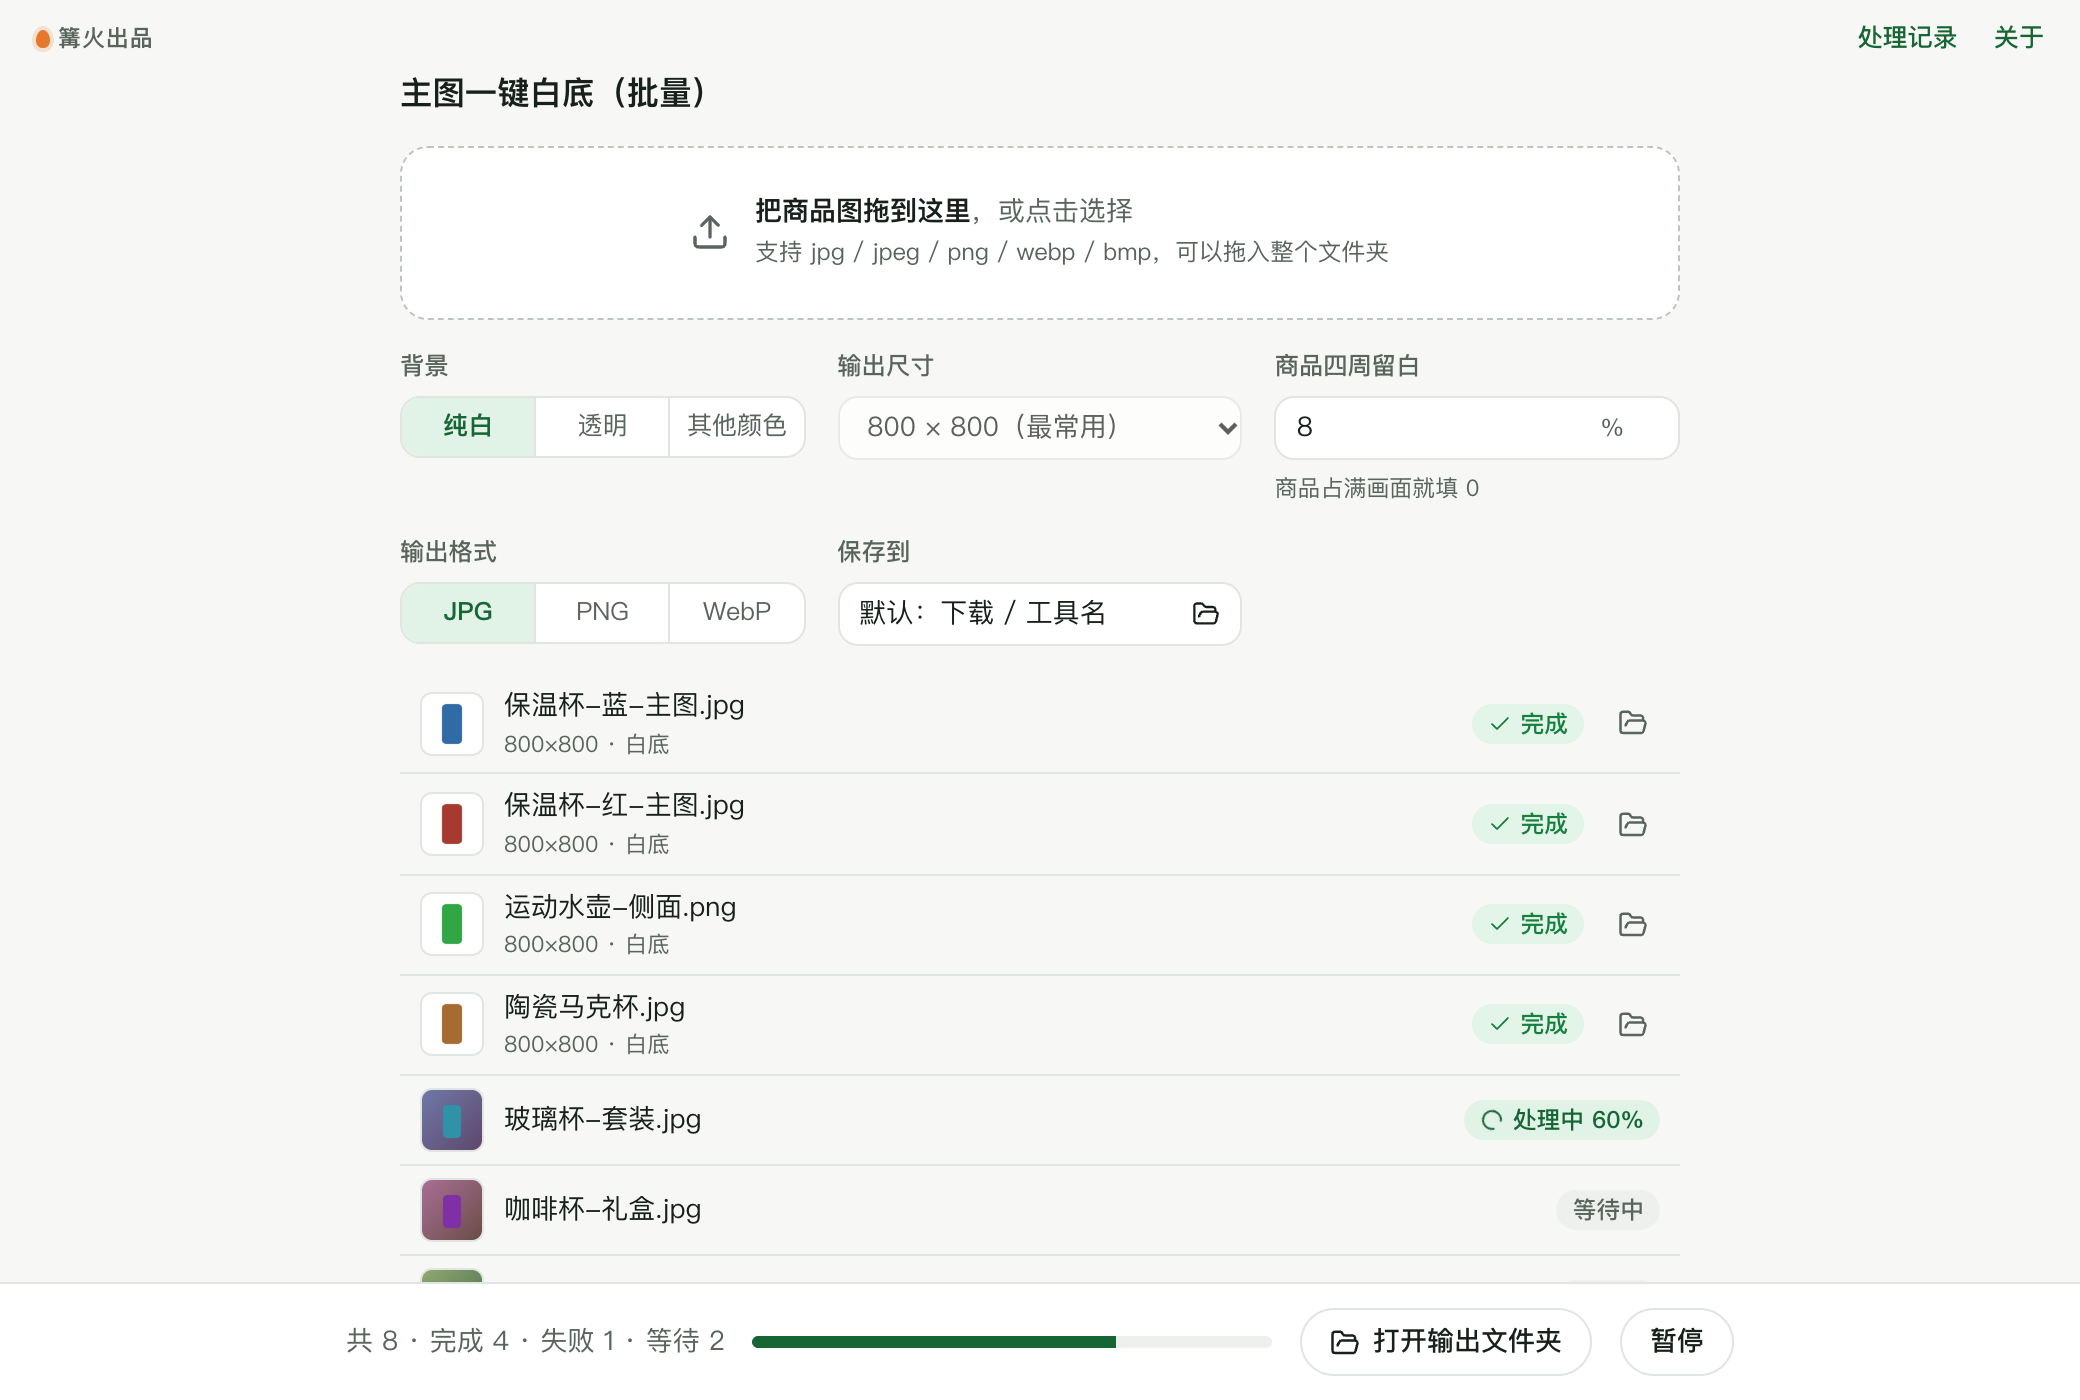
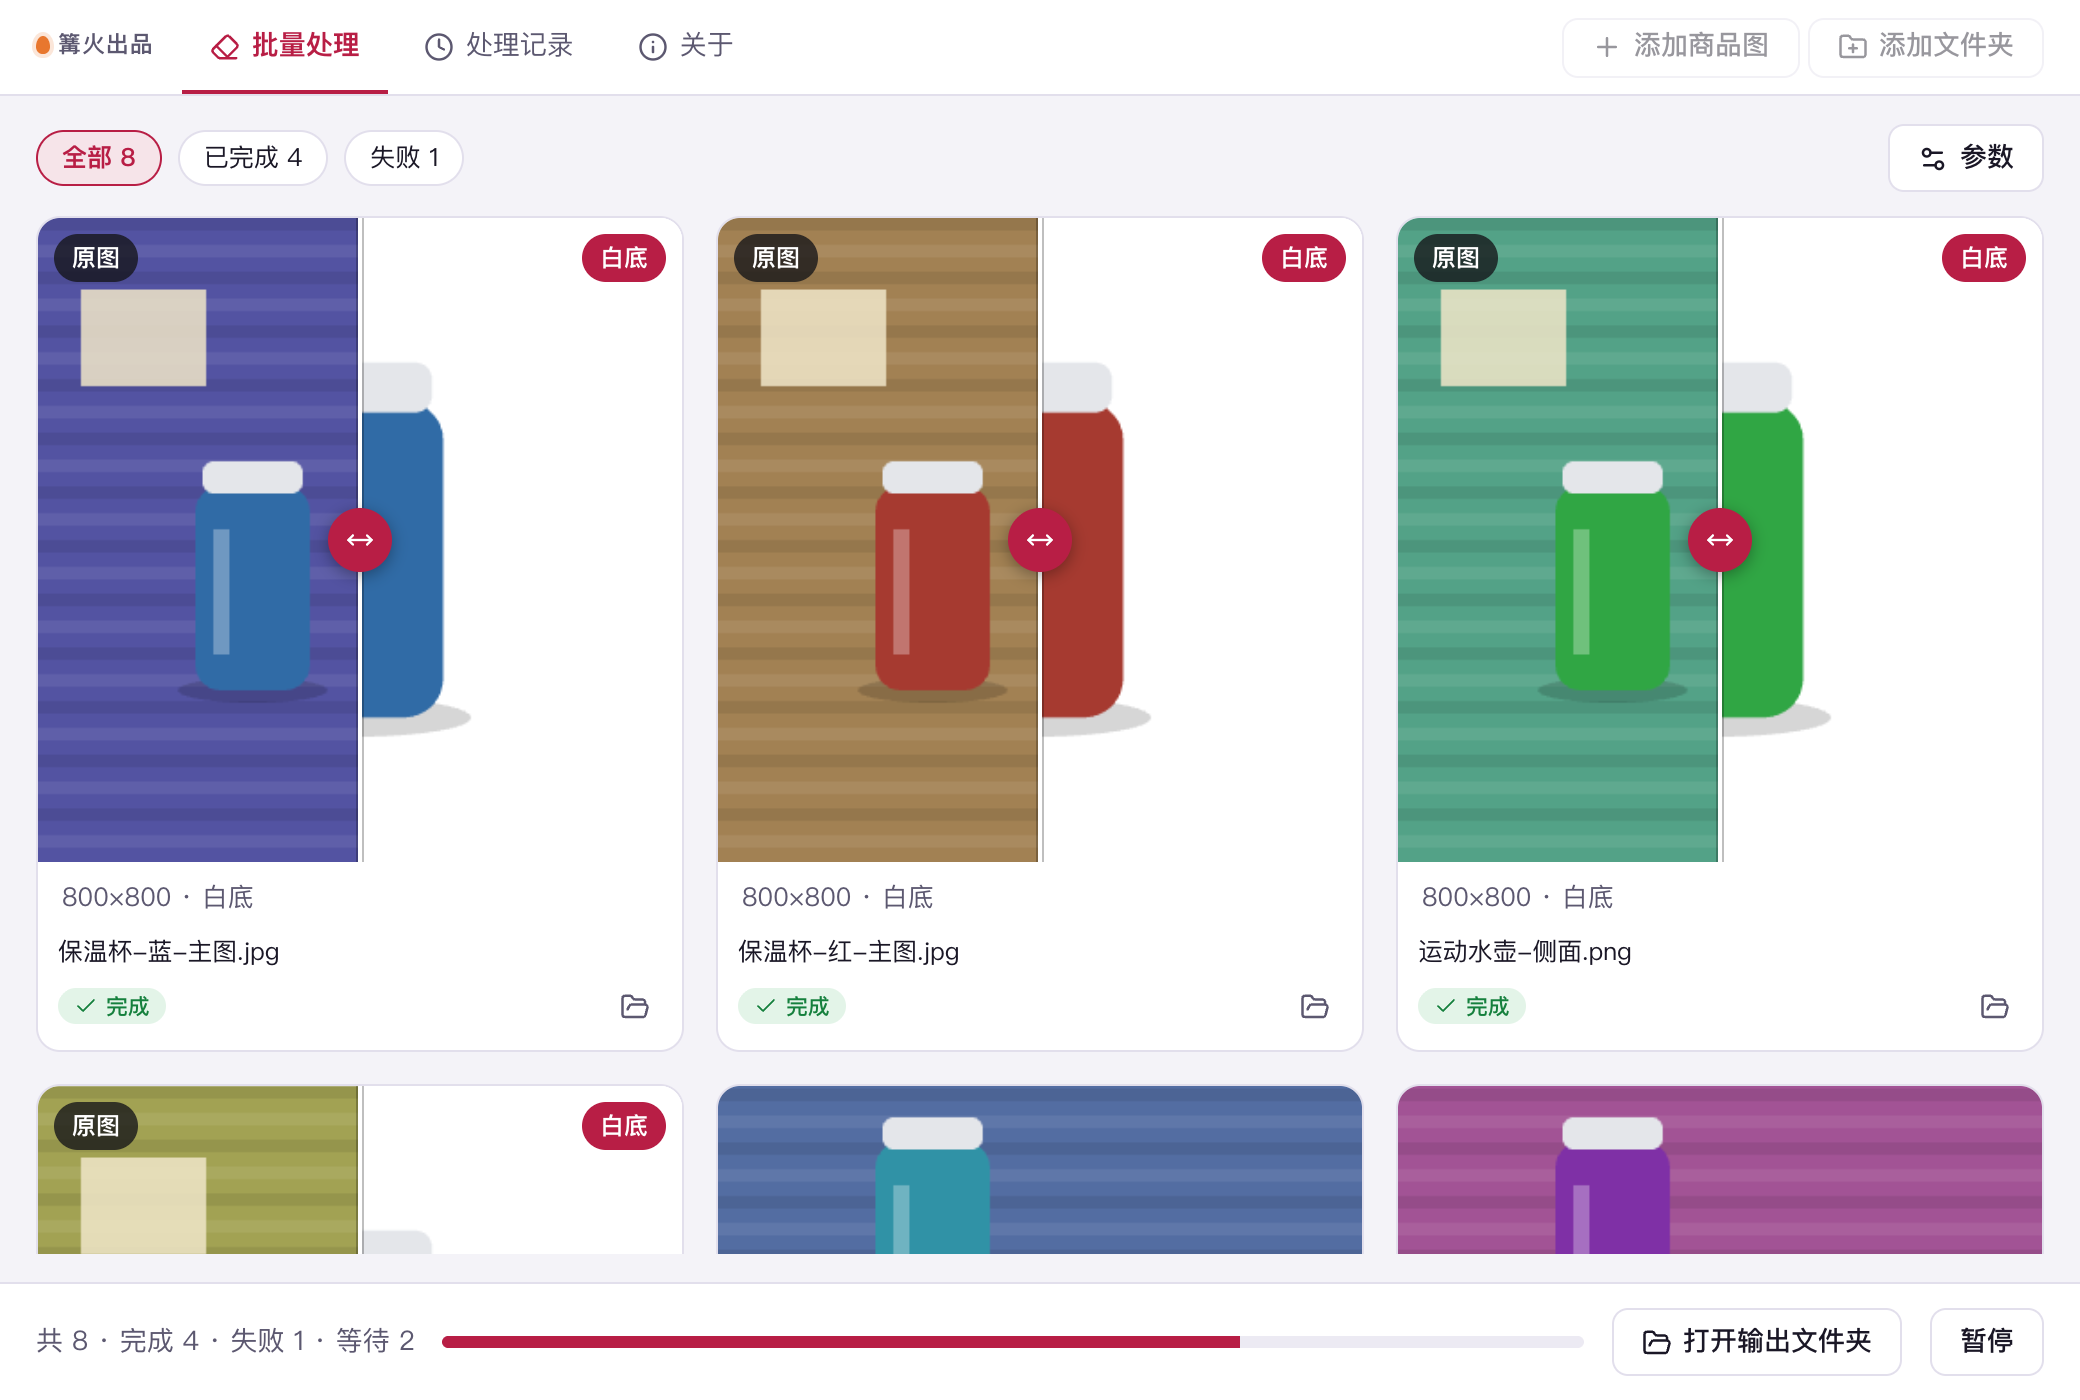
界面重做：前后对比滑块、示意空状态、专属主色（0.2.0）

diff --git a/src/tool/ui.tsx b/src/tool/ui.tsx
@@ -1,0 +1,84 @@
+// 界面：空状态（讲清「杂乱背景 → 白底」）与单条结果（原图 / 白底前后对比滑块）
+import { useState } from 'react';
+import { ArrowRight, FolderOpen, MoveHorizontal, ShieldCheck, Square } from 'lucide-react';
+import type { InputItem, ItemResult } from '../kit/types';
+import { fileSrc } from '../kit/platform';
+import './tool.css';
+
+function Cup({ x, y, s = 1, tone }: { x: number; y: number; s?: number; tone: string }) {
+  return (
+    <g transform={`translate(${x} ${y}) scale(${s})`}>
+      <ellipse cx="50" cy="132" rx="38" ry="6" fill="#000" opacity=".16" />
+      <rect x="22" y="22" width="56" height="106" rx="12" fill={tone} />
+      <rect x="26" y="8" width="48" height="16" rx="5" fill="#E7E9EE" />
+      <rect x="32" y="48" width="8" height="64" rx="4" fill="#fff" opacity=".28" />
+      <path d="M78 54 q22 6 0 40" fill="none" stroke={tone} strokeWidth="8" strokeLinecap="round" />
+    </g>
+  );
+}
+
+export function Empty({ hover }: { hover: boolean }) {
+  return (
+    <div className={`bg-empty${hover ? ' hover' : ''}`}>
+      <div className="bg-flow" aria-hidden="true">
+        <figure>
+          <svg viewBox="0 0 150 150" role="img" aria-label="背景杂乱的商品图">
+            <defs>
+              <pattern id="bg-wood" width="14" height="14" patternUnits="userSpaceOnUse" patternTransform="rotate(18)">
+                <rect width="14" height="14" fill="#B58A5E" /><rect width="7" height="14" fill="#A57A50" />
+              </pattern>
+            </defs>
+            <rect width="150" height="150" fill="url(#bg-wood)" />
+            <circle cx="28" cy="30" r="14" fill="#6B8F71" opacity=".85" />
+            <rect x="104" y="96" width="30" height="30" rx="4" fill="#D9C27A" opacity=".9" transform="rotate(12 119 111)" />
+            <Cup x={26} y={6} s={1.0} tone="#2F6FB4" />
+          </svg>
+          <figcaption>杂乱背景</figcaption>
+        </figure>
+        <span className="bg-flow-arrow"><ArrowRight size={22} /><small>一键抠图</small></span>
+        <figure>
+          <svg viewBox="0 0 150 150" role="img" aria-label="白底商品图">
+            <rect width="150" height="150" fill="#FFFFFF" />
+            <Cup x={26} y={6} s={1.0} tone="#2F6FB4" />
+          </svg>
+          <figcaption>纯白底，居中留白</figcaption>
+        </figure>
+      </div>
+      <h2>把商品图或整个文件夹拖进来</h2>
+      <p>自动抠出商品，换成白底、透明底或指定颜色，按电商主图尺寸居中排好。</p>
+      <ul className="bg-points">
+        <li><Square size={14} />800×800 起，四周留白可调</li>
+        <li><FolderOpen size={14} />可拖整个文件夹，一次处理</li>
+        <li><ShieldCheck size={14} />全程在本机，不上传</li>
+      </ul>
+      <p className="bg-hint">支持 JPG、PNG、WebP、BMP；也可以点右上角的添加按钮选择文件。</p>
+    </div>
+  );
+}
+
+function bgLabel(summary?: string) {
+  if (!summary) return '结果';
+  if (summary.includes('透明')) return '透明底';
+  if (summary.includes('白底')) return '白底';
+  return '新背景';
+}
+
+export function ResultBody({ item, result }: { item: InputItem; result: ItemResult }) {
+  const [pos, setPos] = useState(50);
+  const label = bgLabel(result.summary);
+  const before = item.path ? fileSrc(item.path) : '';
+  const after = result.preview ? fileSrc(result.preview) : '';
+  return (
+    <div className="bg-result">
+      <div className={`bg-cmp${label === '透明底' ? ' checker' : ''}`}>
+        {after && <img className="bg-after" src={after} alt={`${item.name} 处理后`} />}
+        {before && <img className="bg-before" src={before} alt={`${item.name} 原图`} style={{ clipPath: `inset(0 ${100 - pos}% 0 0)` }} />}
+        <span className="bg-line" style={{ left: `${pos}%` }}><i><MoveHorizontal size={14} /></i></span>
+        <em className="bg-tag l">原图</em>
+        <em className="bg-tag r">{label}</em>
+        <input type="range" min={0} max={100} value={pos} aria-label="拖动对比原图和处理结果" onChange={(e) => setPos(Number(e.target.value))} />
+      </div>
+      {result.summary && <small className="bg-sum k-num">{result.summary}</small>}
+    </div>
+  );
+}

diff --git a/src/tool/tool.css b/src/tool/tool.css
@@ -1,0 +1,32 @@
+/* 主图一键白底：空状态示意与前后对比滑块 */
+.bg-empty { display: grid; justify-items: center; gap: 10px; text-align: center; padding: 28px 20px; }
+.bg-empty h2 { margin: 6px 0 0; font-size: 1.5em; letter-spacing: .01em; }
+.bg-empty p { margin: 0; color: var(--muted); max-width: 34em; line-height: 1.6; }
+.bg-flow { display: flex; align-items: center; gap: 18px; margin-bottom: 6px; }
+.bg-flow figure { margin: 0; display: grid; gap: 8px; justify-items: center; }
+.bg-flow figure svg { width: 150px; height: 150px; border-radius: var(--radius-lg); border: 1px solid var(--line); box-shadow: 0 6px 18px rgb(0 0 0 / .08); transition: transform .2s var(--ease); }
+.bg-flow figure:last-child svg { box-shadow: 0 6px 18px rgb(0 0 0 / .08), 0 0 0 3px var(--primary-soft); }
+.bg-empty.hover .bg-flow svg { transform: translateY(-4px); }
+.bg-flow figcaption { font-size: 13px; color: var(--muted); }
+.bg-flow-arrow { display: grid; justify-items: center; gap: 4px; color: var(--primary); }
+.bg-flow-arrow small { font-size: 13px; font-weight: 600; }
+.bg-points { list-style: none; margin: 4px 0 0; padding: 0; display: flex; flex-wrap: wrap; justify-content: center; gap: 8px; }
+.bg-points li { display: inline-flex; align-items: center; gap: 6px; min-height: 32px; padding: 0 12px; border-radius: var(--radius-pill); background: var(--primary-soft); color: var(--ink); font-size: 13px; }
+.bg-points svg { color: var(--primary); }
+.bg-hint { font-size: 13px; }
+
+/* 把卡片网格放大，让对比滑块成为主角 */
+.k-cards { grid-template-columns: repeat(auto-fill, minmax(240px, 1fr)); gap: 16px; }
+.k-card-body { padding: 0; }
+.bg-result { display: grid; }
+.bg-cmp { position: relative; aspect-ratio: 1; overflow: hidden; background: #fff; user-select: none; }
+.bg-cmp.checker .bg-after { background: repeating-conic-gradient(#d9dce1 0 25%, #f4f5f7 0 50%) 0 0 / 16px 16px; }
+.bg-cmp img { position: absolute; inset: 0; width: 100%; height: 100%; object-fit: contain; }
+.bg-before { background: var(--chip); transition: clip-path 0s; }
+.bg-line { position: absolute; top: 0; bottom: 0; width: 2px; margin-left: -1px; background: #fff; box-shadow: 0 0 0 1px rgb(0 0 0 / .25); pointer-events: none; }
+.bg-line i { position: absolute; top: 50%; left: 50%; width: 32px; height: 32px; margin: -16px 0 0 -16px; border-radius: 50%; background: var(--primary); color: var(--on-primary); display: grid; place-items: center; box-shadow: 0 2px 8px rgb(0 0 0 / .35); }
+.bg-tag { position: absolute; top: 8px; font-style: normal; font-size: 12px; font-weight: 600; padding: 3px 9px; border-radius: var(--radius-pill); background: rgb(20 20 24 / .78); color: #fff; pointer-events: none; }
+.bg-tag.l { left: 8px; } .bg-tag.r { right: 8px; background: var(--primary); color: var(--on-primary); }
+.bg-cmp input { position: absolute; inset: 0; width: 100%; height: 100%; margin: 0; opacity: 0; cursor: ew-resize; }
+.bg-cmp:focus-within { outline: 2px solid var(--primary); outline-offset: -2px; }
+.bg-sum { padding: 8px 12px 0; color: var(--muted); font-size: 13px; }

diff --git a/src/tool/preview.ts b/src/tool/preview.ts
@@ -2,16 +2,26 @@
 import type { Row } from '../kit/runner';
 
 function product(hue: number, done: boolean) {
+  const S = 360;
   const c = document.createElement('canvas');
-  c.width = c.height = 200;
+  c.width = c.height = S;
   const g = c.getContext('2d')!;
-  if (done) { g.fillStyle = '#FFFFFF'; g.fillRect(0, 0, 200, 200); } else {
-    const grd = g.createLinearGradient(0, 0, 200, 200);
-    grd.addColorStop(0, `hsl(${(hue + 40) % 360} 25% 55%)`); grd.addColorStop(1, `hsl(${(hue + 90) % 360} 20% 35%)`);
-    g.fillStyle = grd; g.fillRect(0, 0, 200, 200);
+  // 原图：木纹桌面加杂物，商品偏左下；结果图：纯白底，商品居中放大
+  if (done) { g.fillStyle = '#FFFFFF'; g.fillRect(0, 0, S, S); } else {
+    g.fillStyle = `hsl(${(hue + 30) % 360} 32% 48%)`; g.fillRect(0, 0, S, S);
+    for (let i = 0; i < 26; i++) { g.fillStyle = i % 2 ? 'rgb(255 255 255 / .07)' : 'rgb(0 0 0 / .08)'; g.fillRect(0, i * 15, S, 7); }
+    g.fillStyle = `hsl(${(hue + 120) % 360} 35% 55% / .8)`; g.beginPath(); g.arc(290, 70, 40, 0, 7); g.fill();
+    g.fillStyle = 'rgb(240 230 200 / .85)'; g.fillRect(24, 40, 70, 54);
   }
-  g.fillStyle = `hsl(${hue} 55% 42%)`;
-  g.beginPath(); g.roundRect(done ? 66 : 70, done ? 34 : 50, done ? 68 : 60, done ? 132 : 110, 14); g.fill();
+  const k = done ? 1.55 : 1;
+  const ox = done ? S / 2 - 52 * k : 70;
+  const oy = done ? S / 2 - 70 * k : 130;
+  g.save(); g.translate(ox, oy); g.scale(k, k);
+  g.fillStyle = 'rgb(0 0 0 / .16)'; g.beginPath(); g.ellipse(50, 134, 42, 7, 0, 0, 7); g.fill();
+  g.fillStyle = `hsl(${hue} 55% 42%)`; g.beginPath(); g.roundRect(18, 20, 64, 114, 14); g.fill();
+  g.fillStyle = '#E4E6EA'; g.beginPath(); g.roundRect(22, 6, 56, 18, 6); g.fill();
+  g.fillStyle = 'rgb(255 255 255 / .3)'; g.fillRect(28, 44, 9, 70);
+  g.restore();
   return c.toDataURL('image/png');
 }
 const files: [string, number, Row['status'], string?][] = [

diff --git a/src/tool/index.ts b/src/tool/index.ts
@@ -3,6 +3,7 @@ import { Eraser as EraserAsIcon } from 'lucide-react';
 import type { BatchTool } from '../kit/types';
 import { normalizeColor, outName } from './core';
 import { removeBackground } from './remove';
+import { Empty, ResultBody } from './ui';
 
 const MIME: Record<string, [string, string]> = { jpg: ['image/jpeg', 'jpg'], png: ['image/png', 'png'], webp: ['image/webp', 'webp'] };
 
@@ -15,6 +16,8 @@ const tool: BatchTool = {
   type: 'media',
   mode: 'batch',
   resultView: 'list',
+  Empty,
+  ResultBody,
   concurrency: 1,
   accept: { label: '商品图', extensions: ['jpg', 'jpeg', 'png', 'webp', 'bmp'] },
   params: [

diff --git a/CHANGELOG.md b/CHANGELOG.md
@@ -1,5 +1,12 @@
 # 更新记录
 
+## 0.2.0
+
+- 界面重做：结果改成大卡片，每张图都有「原图 / 成品」前后对比滑块，左右拖动即可对比。
+- 新的空状态：用示意图讲清「杂乱背景 → 纯白底」，并列出主要功能。
+- 换成专属主色（莓红），布局改为顶部标签加卡片网格。
+- 示例数据改成真实感的中文商品图。
+
 ## 0.1.1
 
 - 换成篝火图标，界面加入「篝火出品」归属标识。
